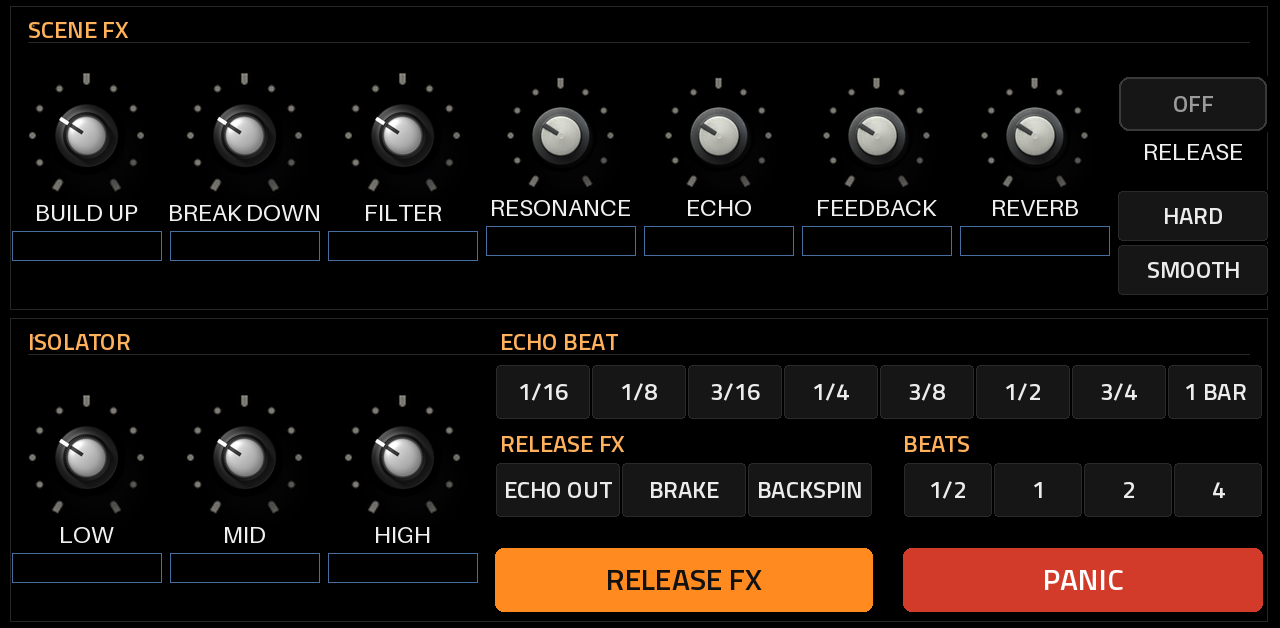
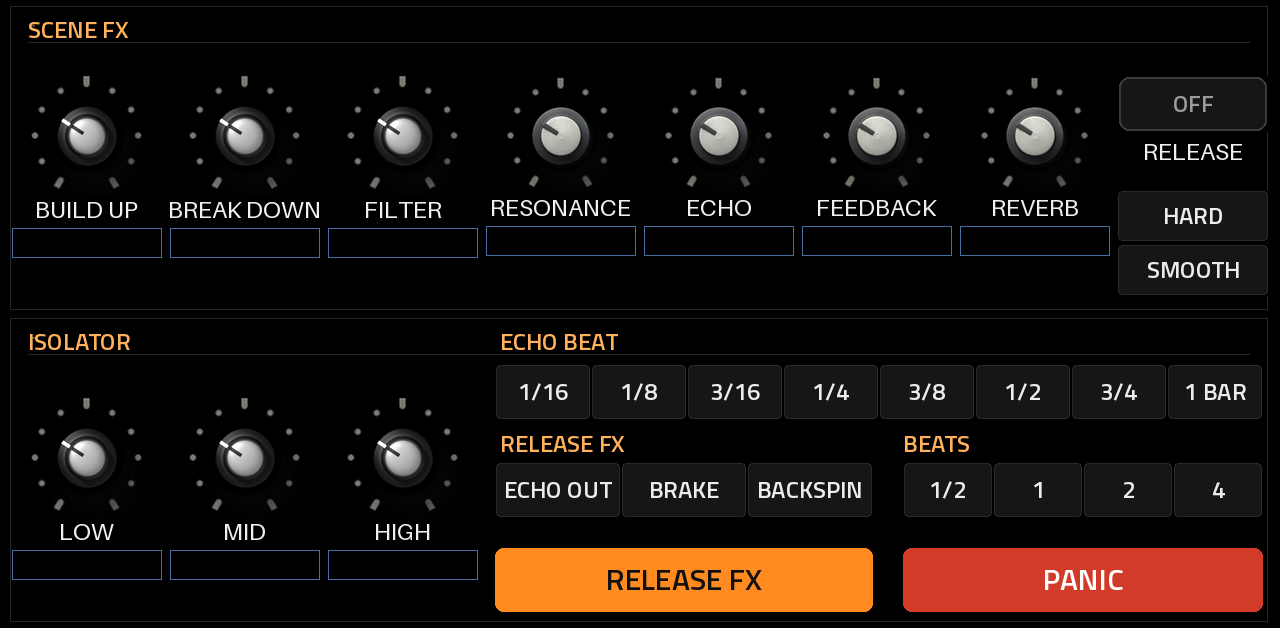
1.2.1: big knobs back to the 1.1.1 size (r=59 strips drifted on the Force)
The 1.2.0 main-knob filmstrip was 16384 px tall; on the Force the knob slid up and down
instead of turning. r=56 (15616 px) drew right on the device in 1.1.1.

Claude-Session: https://claude.ai/code/session_01Pv6TisQmujdB62QBi8rCie

diff --git a/tools/apply_knobs.py b/tools/apply_knobs.py
@@ -6,8 +6,8 @@
 gen_vst.py writes one filmstrip per knob radius (sh_knob_r<R>.png: 128 square frames of 2R+10 px, stacked down, on the
 page colour). This rebuilds each from art/:
   - art/knob_tick.png         the scale (ticks), under every knob, in place of the drawn orange dot ring
-  - art/knob_black_strip.png  101 frames, 150 px: the main controls (radius >= 57 in layout.conf)
-  - art/knob_grey_strip.png   101 frames, 80 px: everything else (radius < 57)
+  - art/knob_black_strip.png  101 frames, 150 px: the main controls (radius >= 55 in layout.conf)
+  - art/knob_grey_strip.png   101 frames, 80 px: everything else (radius < 55)
 The knob is scaled to sit just inside the ticks. Frames are resampled 101 -> 128, minimum first, as MPC expects.
 """
 import os
@@ -20,7 +20,7 @@ ROOT = os.path.join(os.path.dirname(os.path.abspath(__file__)), "..")
 ART = os.path.join(ROOT, "art")
 FRAMES = 128
 PAGE = (0, 0, 0)          # layout.conf theme_panel: the strips are opaque, drawn on the page colour
-MAIN_RADIUS = 57          # radius >= this -> BLACK (layout.conf: main knobs r=59, others r=54; r <= 59 keeps a filmstrip under 16384 px)
+MAIN_RADIUS = 55          # radius >= this -> BLACK (layout.conf: main knobs r=56, others r=54). r=59 (a 16384 px strip) drifted on a Force (1.2.0): stay at r <= 56 (15616 px, verified in 1.1.1)
 
 
 def body_radius(strip, size):

diff --git a/.github/RELEASE_NOTES.md b/.github/RELEASE_NOTES.md
@@ -2,7 +2,7 @@
 
 Put it on a track, a submix or the master and play the mix live: build-ups, breakdowns, filter sweeps, band kills, echoes, reverb washes, granular textures, drum and sample pads, a Release kill switch that drops everything back to dry, and a Panic button. Everything sits in one insert slot, with its own touchscreen pages and Q-Link sets.
 
-> ✅ **1.2.0 is tested on an Akai Force** (MPC OS 3.9.1 with MockbaMod). It fixes what the first Force test (1.1.1, MPC OS 3.9.1 with MockbaMod) found: screen pads and buttons now fire on every tap, option lists are readable, Q-Links no longer race through lists, controls are bigger. New: Release kill switch, separate Release FX button, Panic, 16 user presets, riser Tune / Duck. As with any third-party plugin, save your projects before installing, and report problems under **Issues**. Full list: [CHANGELOG](https://github.com/sunskiefer/RMXXXL/blob/main/CHANGELOG.md).
+> **1.2.1** fixes the big knobs, which slid up and down instead of turning in 1.2.0. 1.2.0 was tested on an Akai Force (MPC OS 3.9.1 with MockbaMod) and fixes what the first Force test (1.1.1, MPC OS 3.9.1 with MockbaMod) found: screen pads and buttons now fire on every tap, option lists are readable, Q-Links no longer race through lists, controls are bigger. New: Release kill switch, separate Release FX button, Panic, 16 user presets, riser Tune / Duck. As with any third-party plugin, save your projects before installing, and report problems under **Issues**. Full list: [CHANGELOG](https://github.com/sunskiefer/RMXXXL/blob/main/CHANGELOG.md).
 
 ## How you play it
 1. **Shape the mix** with the isolator (Low / Mid / High, fully left = kill) and the DJ filter (left = low-pass, right = high-pass).
@@ -24,10 +24,10 @@ Everything follows the MPC tempo, and all settings save with your project.
 - Root SSH access (for example MockbaMod)
 
 ## Install
-Download **RMXXXL-1.2.0-mpc-armv7.zip** below, unzip it, then:
+Download **RMXXXL-1.2.1-mpc-armv7.zip** below, unzip it, then:
 
-    scp -r RMXXXL-1.2.0 root@<device-ip>:/tmp/
-    ssh -t root@<device-ip> sh /tmp/RMXXXL-1.2.0/install.sh
+    scp -r RMXXXL-1.2.1 root@<device-ip>:/tmp/
+    ssh -t root@<device-ip> sh /tmp/RMXXXL-1.2.1/install.sh
 
 The installer stops MPC (save first), installs the plugin, and starts MPC again. Then insert **RMXXXL** (manufacturer ANDREALPHEUS) as an insert effect. Pad samples go in `/sdcard/RMXXXL Samples`, presets in `/sdcard/RMXXXL Presets`.
 

diff --git a/README.md b/README.md
@@ -1,4 +1,4 @@
-# RMXXXL v1.2.0
+# RMXXXL v1.2.1
 
 **An RMX-1000-style remix effect that runs natively inside MPC OS on the Akai Force.**
 
@@ -8,7 +8,7 @@ filter sweeps, band kills, echoes, reverb washes, granular textures, drum and sa
 drops everything back to dry, and a Panic button. Everything sits in one insert slot, with its own touchscreen pages and Q-Link sets.
 
 > [!NOTE]
-> **Status: 1.2.0, tested on an Akai Force** (MPC OS 3.9.1 with MockbaMod). It fixes what the 1.1.1 test found (see
+> **Status: 1.2.1.** 1.2.0 was tested on an Akai Force (MPC OS 3.9.1 with MockbaMod); 1.2.1 fixes its big knobs. It fixes what the 1.1.1 test found (see
 > the [changelog](CHANGELOG.md)) and passes the full test suite on x86 (ASan + UBSan). Report anything odd under
 > [Issues](../../issues).
 

diff --git a/docs/USER_GUIDE.md b/docs/USER_GUIDE.md
@@ -6,7 +6,7 @@ RMXXXL v.1 by ANDREALPHEUS is a performance remix effect in the spirit of the Pi
 
 Put it on a track, a submix or the master, and play the mix live with big macro moves: build-ups, breakdowns, filter sweeps, band kills, echoes, reverb washes, granular textures, drum and sample hits and a release button that snaps everything back.
 
-Status: version 1.2.0, tested on an Akai Force (MPC OS 3.9.1 with MockbaMod). It fixes what the 1.1.1 test found and passes the offline tests. The other Gen1 units are untested.
+Status: version 1.2.1 (1.2.0 tested on an Akai Force, MPC OS 3.9.1 with MockbaMod; 1.2.1 fixes the big knobs drawing). It fixes what the 1.1.1 test found and passes the offline tests. The other Gen1 units are untested.
 
 **Signal flow**, in order:
 

diff --git a/CHANGELOG.md b/CHANGELOG.md
@@ -1,5 +1,10 @@
 # Changelog
 
+## 1.2.1
+- Fix: the big knobs (Build Up, Break Down, Filter, Low / Mid / High, Reverb on its page, the ADSR, Limit Drive and
+  Ceiling) slid up and down on the Force instead of turning. Their 1.2.0 filmstrip was 16384 px tall, MPC's limit;
+  they are back to the 1.1.1 size, which draws right on the device.
+
 ## 1.2.0
 Fixes from the first test on an Akai Force (MPC OS 3.9.1), and the features asked for after it.
 
